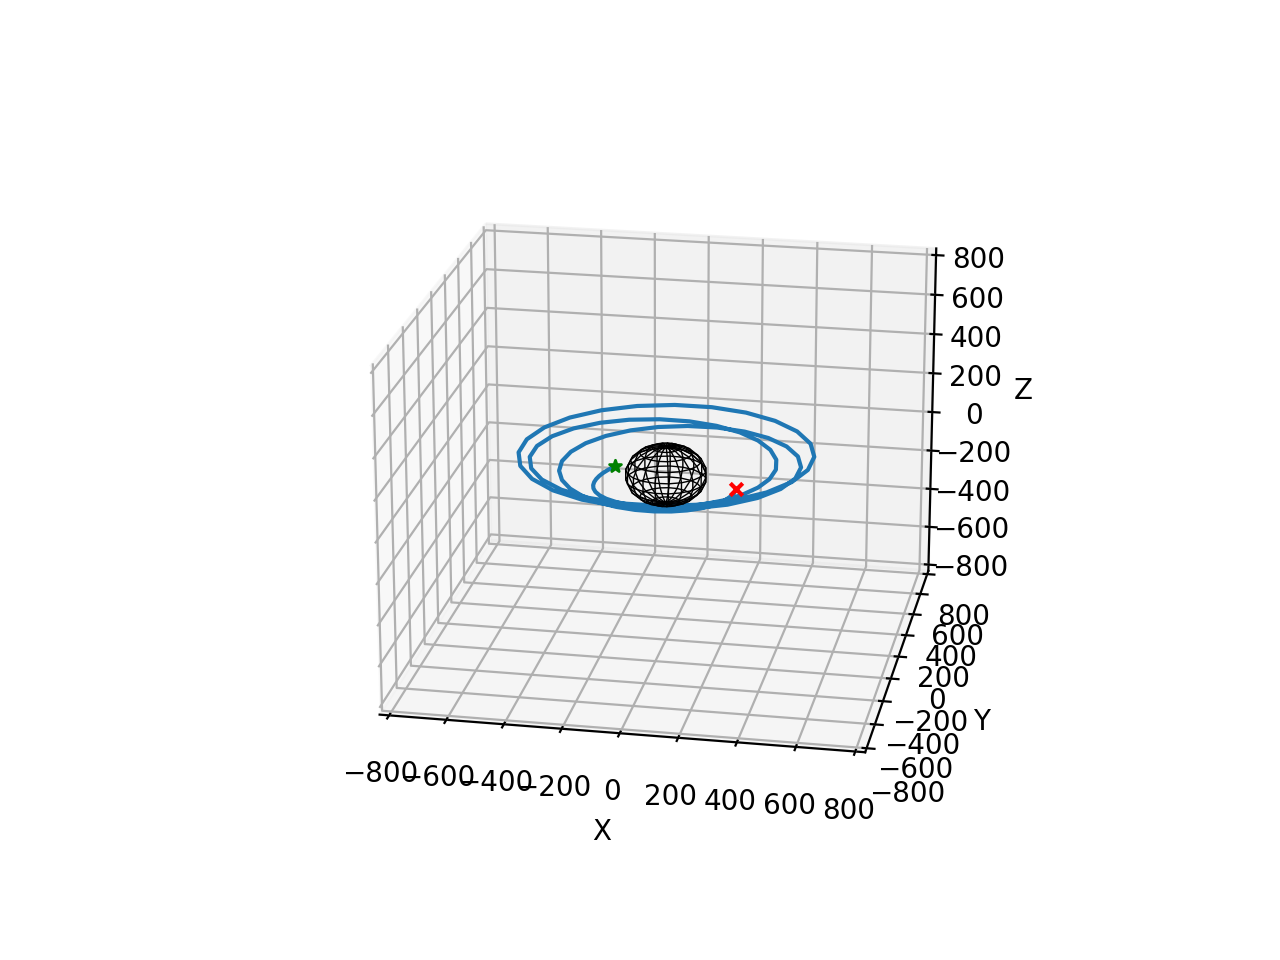
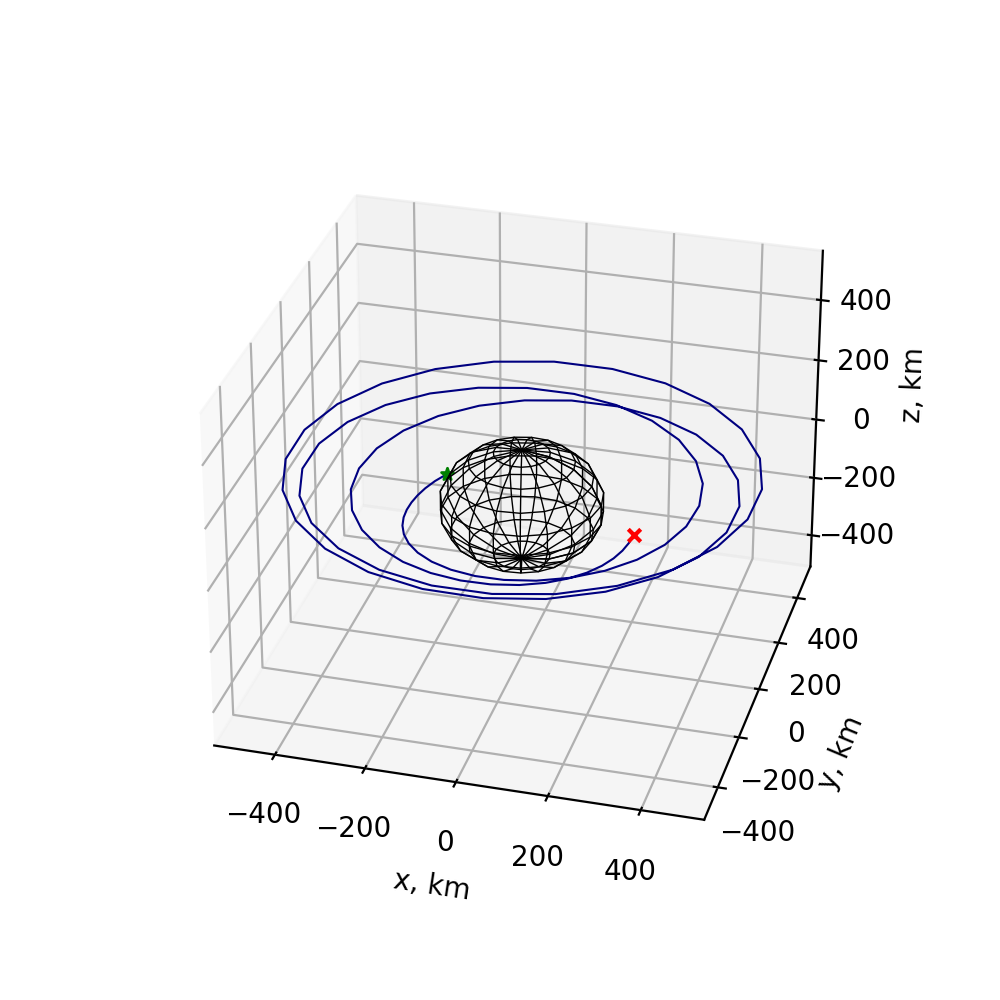
quick plotter method

Changed region(s): [[0.217, 0.2188, 0.93, 0.875], [0.403, 0.875, 0.465, 0.9062], [0.837, 0.7188, 0.868, 0.75]]

diff --git a/trajplotlib/helper3d.py b/trajplotlib/helper3d.py
@@ -3,6 +3,8 @@
 """
 
 import numpy as np
+import matplotlib.pyplot as plt
+
 
 def set_equal_axis(ax, xlims, ylims, zlims):
     """Helper function to set equal axis
@@ -57,3 +59,41 @@ def plot_sphere_wireframe(ax, radius, center=None, color="k", linewidth=0.5):
     x_sphere, y_sphere, z_sphere = get_sphere_coordinates(radius, center)
     ax.plot_wireframe(x_sphere, y_sphere, z_sphere, color=color, linewidth=linewidth)
     return
+
+
+def quickplot3(xs, ys, zs, r0: float=None, ax=None, n_figsize=5, lw_traj=0.75, c_traj="navy"):
+    """Plot trajectory around body
+    
+    Args:
+        xs (ndarray): x-coordinates
+        ys (ndarray): y-coordinates
+        zs (ndarray): z-coordinates
+        r0 (float): radius for center sphere, None if no sphere should be plotted
+        ax (Axes3DSubplot): matplotlib 3D axis, created by `ax = fig.add_subplot(projection='3d')`. If set to None, new set of axis is created. 
+        n_figsize (int): fig_size is set to (n_figsize, n_figsize)
+        lw_traj (float): linewidth for trajectory
+        c_traj (str): color for trajectory
+    """
+    if ax is None:
+        fig = plt.figure(figsize=(n_figsize,n_figsize))
+        ax = fig.add_subplot(projection='3d')
+        # reference sphere around asteroid
+        if r0 is not None:
+            plot_sphere_wireframe(ax, r0, center=[0.0, 0.0, 0.0], color="k", linewidth=0.5)
+        # equal size grid
+        xlims = [min(xs), max(xs)]
+        ylims = [min(ys), max(ys)]
+        zlims = [min(zs), max(zs)]
+        set_equal_axis(ax, xlims, ylims, zlims)
+        # labels
+        ax.set_xlabel('x, km')
+        ax.set_ylabel('y, km')
+        ax.set_zlabel('z, km')
+    # plot trajectory
+    ax.plot(xs, ys, zs, linewidth=lw_traj, c=c_traj)
+    ax.scatter(xs[0], ys[0], zs[0], marker="x", c="r")
+    ax.scatter(xs[-1], ys[-1], zs[-1], marker="*", c="g")
+    return ax
+
+
+

diff --git a/examples/test_3d_traj.py b/examples/test_3d_traj.py
@@ -5,36 +5,17 @@ Example 3D trajectory
 import matplotlib.pyplot as plt
 import numpy as np
 import sys
-sys.path.append("../")
+sys.path.append("../")  # provide path to library
 import trajplotlib
 
 
 if __name__=="__main__":
 	# load data
 	data = np.loadtxt('data_traj.csv', delimiter=',')
-	x = data[:, 0]
-	y = data[:, 1]
-	z = data[:, 2]
+	xs = data[:, 0]
+	ys = data[:, 1]
+	zs = data[:, 2]
 
 	# create plot
-	fig = plt.figure()
-	ax = fig.add_subplot(projection='3d')
-
-	# plot trajectory
-	ax.plot(x, y, z)
-	ax.scatter(x[0], y[0], z[0], marker="x", c="r")
-	ax.scatter(x[-1], y[-1], z[-1], marker="*", c="g")
-
-	# create plot with equl axis via boxing
-	xlims = [min(x), max(x)]
-	ylims = [min(y), max(y)]
-	zlims = [min(z), max(z)]
-	trajplotlib.set_equal_axis(ax, xlims, ylims, zlims)
-	
-	# reference sphere
-	trajplotlib.plot_sphere_wireframe(ax, radius=230.0, color="k", linewidth=0.5)
-	# labels
-	ax.set_xlabel('X')
-	ax.set_ylabel('Y')
-	ax.set_zlabel('Z')
+	trajplotlib.quickplot3(xs,ys,zs, r0=180.0)
 	plt.show()

diff --git a/trajplotlib/__init__.py b/trajplotlib/__init__.py
@@ -3,4 +3,4 @@ trajplotlib init file
 """
 
 
-from .helper3d import set_equal_axis, get_sphere_coordinates, plot_sphere_wireframe
+from .helper3d import set_equal_axis, get_sphere_coordinates, plot_sphere_wireframe, quickplot3
